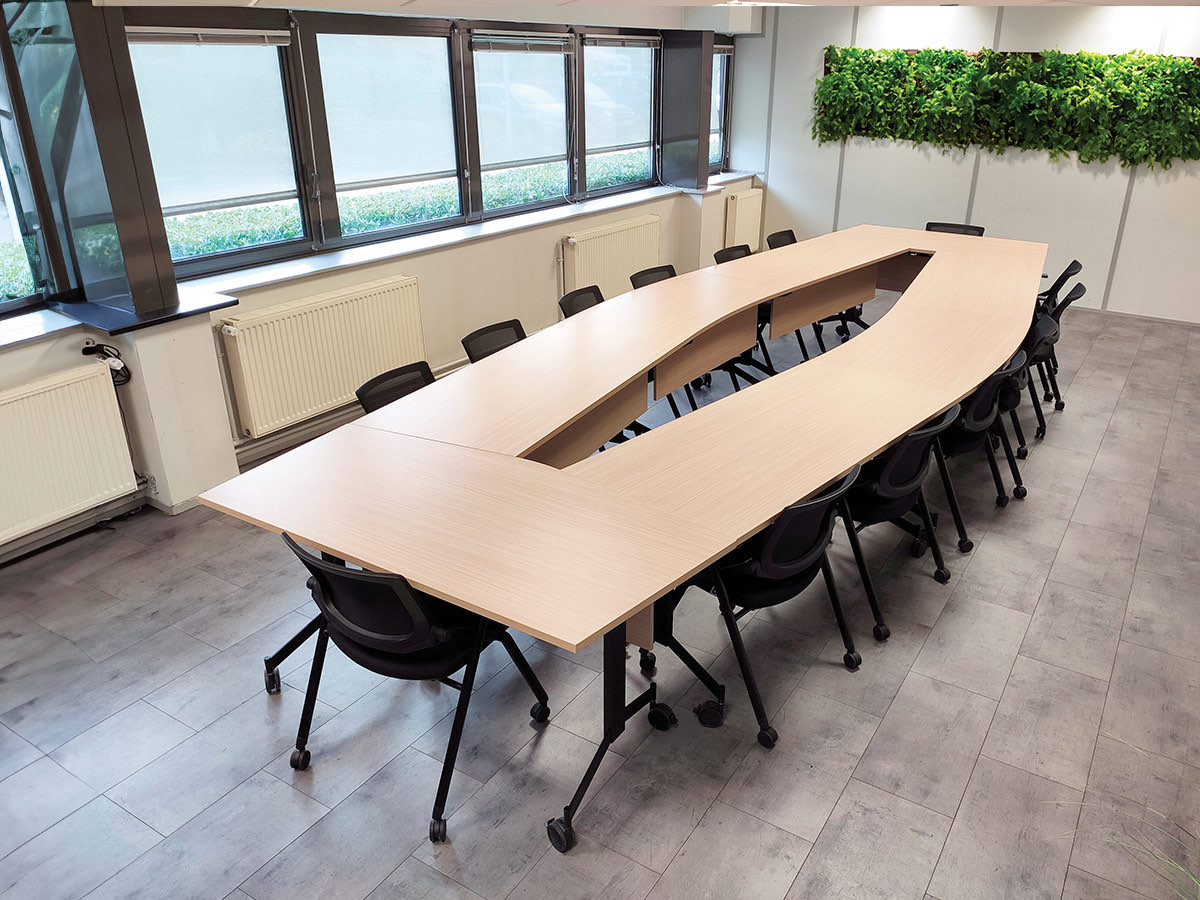
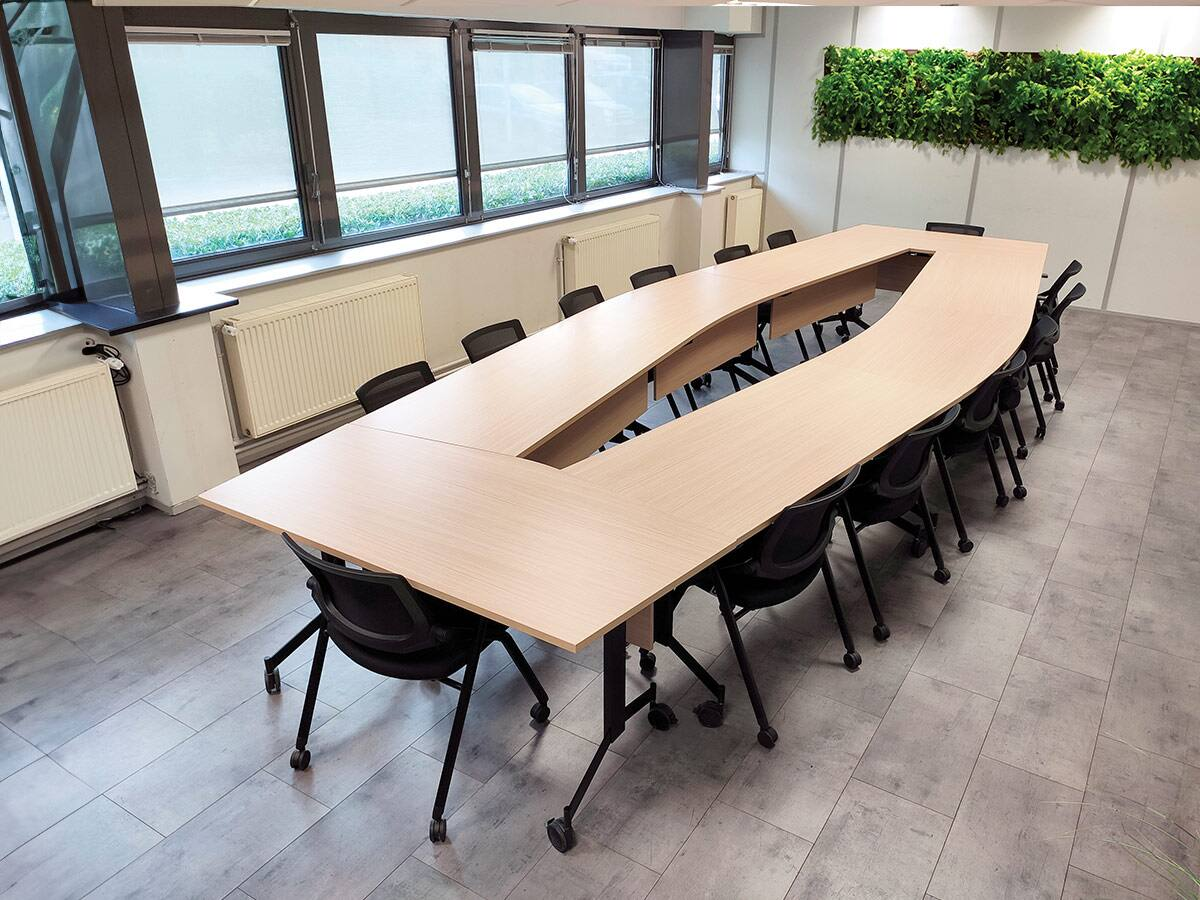
photos: recompression ImageMagick, -38% a dimensions egales
680 -> 417 Ko pour les quatre salles. sips agrandissait les sources
plus petites que la cible et compressait mal.

Changed region(s): [[0.6783, 0.0311, 1.0, 0.1556], [0.3083, 0.2178, 0.37, 0.2489], [0.1542, 0.2489, 0.2158, 0.28]]

diff --git a/docs/ARCHITECTURE.md b/docs/ARCHITECTURE.md
@@ -159,14 +159,29 @@ valeur change. `NULL` est autorisé — une salle créée sans photo affiche un
 aplat neutre plutôt qu'une image cassée.
 
 Les sources sont livrées dans `Photos/` et les versions optimisées dans
-`public/rooms/` (688 Ko au total, chargement différé). Leurs formats restent
+`public/rooms/` (417 Ko au total, chargement différé). Leurs formats restent
 hétérogènes — 1200×825 paysage pour la Medium Room, 960×1200 **portrait** pour
 le Phone Booth — d'où un ratio imposé avec `object-cover` : on recadre
 proprement au lieu de déformer.
 
-> **Le script d'optimisation ne doit jamais agrandir.** `sips -Z 1200` upscale
-> les images plus petites que la cible, ce qui dégrade *et* alourdit. La boucle
-> teste donc la dimension maximale et ne redimensionne que si elle dépasse.
+Commande d'optimisation, à rejouer si une source change :
+
+```bash
+magick "Photos/<Salle>.jpg" -auto-orient -resize '1200x1200>' \
+  -strip -interlace Plane -sampling-factor 4:2:0 -quality 72 \
+  -colorspace sRGB "public/rooms/<salle>.jpg"
+```
+
+Trois détails comptent. **Le `>` dans `1200x1200>`** n'autorise que la
+réduction : sans lui, une source plus petite serait agrandie, ce qui dégrade
+l'image *et* l'alourdit. **1200 px** est le double de la largeur d'affichage
+(~540 px sur la liste des salles), donc le minimum pour rester net sur écran
+retina. **Qualité 72** est le point où la courbe poids/qualité s'infléchit :
+au-delà, le poids grimpe sans gain visible.
+
+> L'outil natif macOS `sips` a d'abord été utilisé, puis abandonné : il agrandit
+> les images plus petites que la cible et compresse nettement moins bien.
+> Le passage à ImageMagick a réduit le total de **38 %** à dimensions égales.
 
 La page d'une salle utilise une **vignette** et non une bannière pleine
 largeur. Ce n'est plus une question de résolution : c'est pour qu'on atteigne

diff --git a/docs/PLAN.md b/docs/PLAN.md
@@ -199,9 +199,14 @@ Migration `14_room_images` : colonne `rooms.image_url`, générique pour accepte
 plus tard une URL Supabase Storage sans changer le schéma (voir
 `ARCHITECTURE.md`).
 
-Sources dans `Photos/`, optimisées vers `public/rooms/` — **sans agrandissement** :
-`sips -Z` upscale les images plus petites que la cible, ce qui dégrade *et*
-alourdit. Total : 688 Ko pour les quatre, chargées en `loading="lazy"`.
+Sources dans `Photos/`, optimisées vers `public/rooms/` avec ImageMagick —
+**417 Ko** pour les quatre, en chargement différé. La commande exacte est dans
+[`ARCHITECTURE.md`](ARCHITECTURE.md).
+
+`sips` (natif macOS) a d'abord servi, puis a été abandonné pour deux raisons :
+il agrandit les images plus petites que la cible, et il compresse mal. Le
+passage à ImageMagick a fait **−38 %** à dimensions identiques (680 → 417 Ko),
+la Large Room passant de 270 à 151 Ko.
 
 Affichage : photo en tête de carte sur la liste des salles, **vignette** sur la
 page de réservation — pour atteindre la grille sans faire défiler une grande
